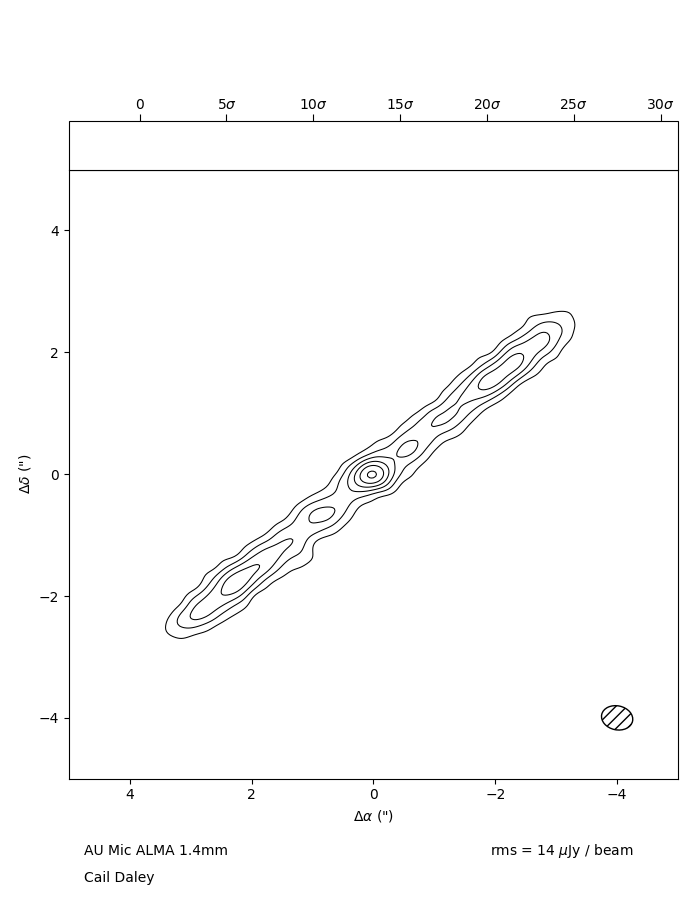
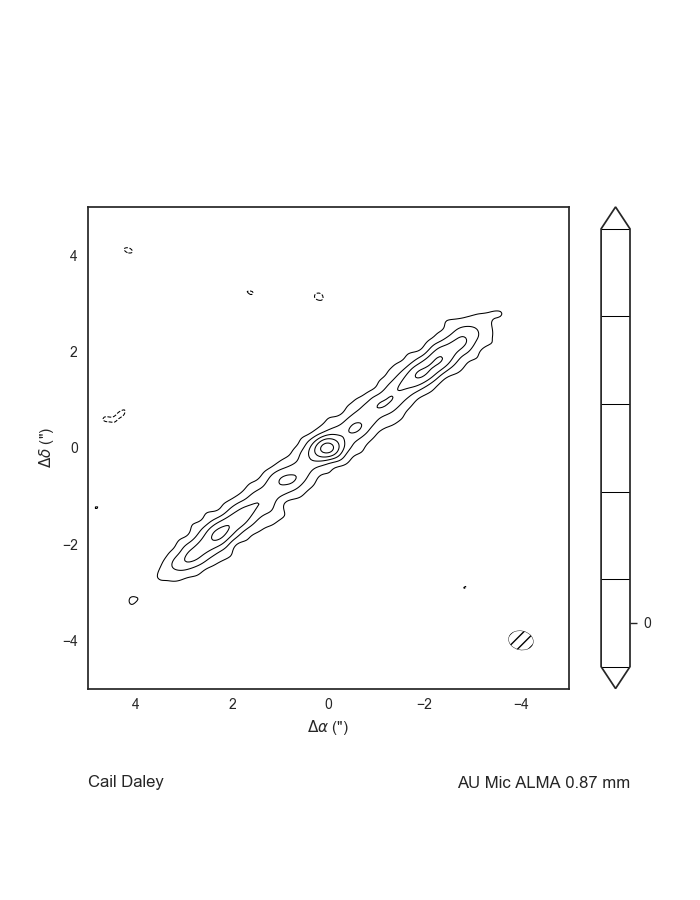
new iterations of both querying and plotting scripts

diff --git a/input.py b/input.py
@@ -1,42 +1,32 @@
-%reload_ext autoreload
-%autoreload 2
 import numpy as np
 from astropy.io import fits
+import astropy.constants as c
+import astropy.units as u
 import matplotlib as mpl
 import matplotlib.patheffects
 import matplotlib.pyplot as plt
 import mpl_toolkits.axes_grid1
 import seaborn as sns
 from glob import glob
+import scipy.ndimage
 
-
-# try:
-#     %matplotlib inline
-#     %config InlineBackend.figure_format = 'jpg'
-# except:
-#     pass
-# sns.set_style("ticks", {"xtick.direction": "in", "ytick.direction": "in"})
+sns.set_style("white", {"xtick.direction": "in", "ytick.direction": "in"})
+    
     
 
 class Page:
-    def __init__(self, path, rms=None, xy_extent=None):
+    def __init__(self, path):
         self.path = path
-        self.fig, self.ax = plt.subplots(figsize=(7,9))
+        
         self.get_fits()
-        self.set_rms(rms, xy_extent)
+        # self.set_rms(rms, xy_extent)
         
     def get_fits(self):
         # Get header, image array and rms, convert to micro Jy
         fits_file = fits.open(self.path)
         self.head = fits_file[0].header
-        self.im = fits_file[0].data[0][0]
-        if np.log10(self.im.max()) >= -3:
-            self.unit = 'mJy / beam'
-            self.im *= 1e3
-        elif np.log10(self.im.max()) >= -6:
-            self.unit = r'$\mu$Jy / beam'
-            self.im *= 1e6
-            
+        self.im = np.squeeze(fits_file[0].data[0])
+        
         # Read in header spatial info to create coordinate grid
         nx = self.head['NAXIS1'];           ny = self.head['NAXIS2']
         xpix = self.head['CRPIX1'];         ypix = self.head['CRPIX2']
@@ -46,77 +36,70 @@ class Page:
         self.ra_offset  = np.array( ( (np.arange(nx) - xpix + 1) * xdelt) * 3600)
         self.dec_offset = np.array( ( (np.arange(ny) - ypix + 1) * ydelt) * 3600)
     
-    def set_rms(self, rms, xy_extent):
+        self.wav = (c.c / (self.head['CRVAL3']*u.Hz)).to('mm')
+        
+    def set_rms(self, rms=None, xy_extent=None):
+        try:
+            readme_path = self.path[:self.path.rfind('/') + 1] + 'README'
+            with open(readme_path, 'r') as f:
+                readme = f.read()
+                
+            rms_ind = readme.find('RMS')
+            self.rms = np.float(readme[rms_ind:].split()[1])
+            unit = readme[rms_ind:].split()[2]
+            
+            print('Taking the rms from the following:\n\n')
+            print(readme[rms_ind-150:rms_ind+25] + '\n\n')
+        except IOError: 
+            pass
+
         if rms is not None:
             self.rms = rms
         elif xy_extent is not None:
-            rms_pixels = []
-            for i in range(self.im.shape[0]):
-                for j in range(self.im.shape[1]):
-                    if np.abs(self.dec_offset[i]) > xy_extent[1] and np.abs(self.ra_offset[i]) > xy_extent[0]:
-                        rms_pixels.append(self.im[i,j])
-            self.rms = np.sqrt(np.mean(np.array(rms_pixels)**2)) 
+            rms_array = np.copy(self.im); 
+            x_ind = np.argmin(np.abs(np.abs(self.ra_offset) - xy_extent[0]))
+            y_ind = np.argmin(np.abs(np.abs(self.dec_offset) - xy_extent[1]))
+            rms_array[x_ind:-x_ind, y_ind:-y_ind] = np.nan
+            self.rms = np.sqrt(np.nanmean(rms_array**2)) 
+        
+        try:
+            self.snr = np.array([np.nanmin(self.im), np.nanmax(self.im)]) / self.rms
+            print('RMS is {}'.format(self.rms))
+            print('SNR ranges between {} and {}'.format(*self.snr))
+        except AttributeError:
+            self.rms = None
     
-    def make_page(self, extent=None, sigma_interval=2):
+    def make_page(self, extent=None, levels=None, channel_ind=None):
+        self.fig, self.ax = plt.subplots(figsize=(7,9))
+        self.ax.grid(False); self.ax.set_aspect('equal')
+        self.ax.set_xlabel(r'$\Delta \alpha$ (")')
+        self.ax.set_ylabel(r'$\Delta \delta$ (")')
+        
+        im = self.im if channel_ind is None else self.im[channel_ind]
+        
         if extent != None:
             xmin, xmax = -extent, extent;  ymin, ymax = -extent, extent
             self.ax.set_xlim(xmax, xmin);       self.ax.set_ylim(ymin, ymax)
-            self.ax.grid(False)
     
-        # Set x and y major and minor tics
-        # majorLocator = mpl.ticker.AutoLocator()
-        # self.ax.xaxis.set_major_locator(majorLocator)
-        # self.ax.yaxis.set_major_locator(majorLocator)
-
-        # Set x and y labels
-        self.ax.set_xlabel(r'$\Delta \alpha$ (")')
-        self.ax.set_ylabel(r'$\Delta \delta$ (")')
-        # self.ax.tick_params(which='both', right='on', labelsize=18, direction='in')
-        # self.ax.tick_params(axis='y', labelright='off', right='on')
-        
-        self.ax.set_aspect('equal'); 
-        try:
-            min_sigma = np.ceil(self.im.min() / self.rms)
-            max_sigma = np.ceil(self.im.max() / self.rms)
-            contour_levels = np.arange(min_sigma, max_sigma, 1)
-            contours = self.ax.contour(self.ra_offset, self.dec_offset, self.im/self.rms,
-                colors='k', levels=contour_levels, 
-                linewidths=0.75, linestyles='solid')
-            self.ax.contour(self.ra_offset, self.dec_offset, self.im/self.rms,
-                levels=np.flip(contour_levels, axis=0) * -1,
-                colors='k', linewidths=0.75, linestyles='dashed')
-        except AttributeError:
-            cmap = self.ax.imshow(self.im,
+        if levels is not None:
+            contour_levels = np.array(levels) * np.nanmax(self.im)
+            for_cbar = self.ax.contour(self.ra_offset, self.dec_offset,     
+                im, levels=contour_levels, colors='k', 
+                linewidths=0.75, extend='both')
+        else:
+            for_cbar = self.ax.imshow(im,
                 extent=[self.ra_offset[0], self.ra_offset[-1], self.dec_offset[-1], self.dec_offset[0]])
-
-        # Create the colorbar
+                
+            # Create the colorbar
         divider = mpl_toolkits.axes_grid1.make_axes_locatable(self.ax)
-        cax = divider.append_axes("top", size="8%", pad=0.0)
-        cmap = mpl.colors.LinearSegmentedColormap.from_list('white', [(1,1,1), (1,1,1)], N=1000)
-        cbar = mpl.colorbar.ColorbarBase(cmap=cmap, ax=cax, 
-            norm=mpl.colors.Normalize(vmin=self.im.min()/self.rms, vmax=self.im.max()/self.rms), 
-            orientation='horizontal')
-        cbar.ax.xaxis.set_tick_params(which='major', direction='out', 
-        bottom='off', top='on', labeltop='on', labelbottom='off',
-        length=5, pad=1.5)
-        cbar.ax.set_xticklabels([r'${}\sigma$'.format(int(sigma_val)) for sigma_val in cbar.get_ticks()])
-        self.fontsize = self.ax.xaxis.label.get_size()
+        cax = divider.append_axes("right", size="6%", pad=0.32)
         
-        # try:
-        #     if min_sigma == -sigma_interval: 
-        #         min_sigma -= 1
-        #     cbar.set_ticks(list(-contour_levels)[::-1] + [0] + list(contour_levels))
-        #     cbar_labels = [ r'${}\sigma$'.format(level)
-        #         for level in range(-sigma_interval, min_sigma, -sigma_interval)] \
-        #         + ['0'] \
-        #         + [r'${}\sigma$'.format(int(val/self.rms)) \
-        #             for val in contour_levels]
-        #     cbar.ax.set_xticklabels(cbar_labels)
-        # 
-        # except (UnboundLocalError, AttributeError):
-        #     pass
-
-        # Overplot the beam ellipse
+        # boundaries = [self.im.min()] + list(contour_levels) + [self.im.max()]
+        cbar = self.fig.colorbar(for_cbar, ax=self.ax, cax=cax, 
+            ticks=[0], spacing='proportional', orientation='vertical')
+        cbar.ax.set_yticklabels(cbar.ax.get_yticklabels(), ha='right')
+        cbar.ax.yaxis.set_tick_params(pad=10, length=5, direction='out')
+        
         try:
             beam_ellipse_color = 'k'
             bmin = self.head['bmin'] * 3600.
@@ -131,61 +114,50 @@ class Page:
         except KeyError: 
             pass
             
-    def quickview(self):
-            plt.imshow(self.im, origin='lower')
-            plt.show(block=False)
-            
-
-class ColoringBook:
-    # Set seaborn plot styles and color pallete
-    def __init__(self):
-        self.pages = []
-            
-    def add_page(self, path):
-        self.pages.append(Page(path))
-        return self.pages[-1]
+    def add_text(self, text_dict):
+        for align, string in text_dict.items():
+            if align == 'left':
+                # x = 1 - page.ax.get_position().extents[2]
+                x,y = page.ax.get_position().extents[:2]
+            elif align == 'right':
+                x,y = page.ax.get_position().extents[2:0:-1]
+            self.fig.text(x, y, s=string, horizontalalignment=align)
         
-    def make_pages(self):
-        for page in self.pages:
-            page.make_page()
-            page.quickview()
-    
-    def add_title(self, title):
-        plt.suptitle(self.title)
-    
-    def show(self):
-        plt.show(block=False)
-        
-    def save(self, path, dpi=400):
-        self.fig.savefig(path, dpi=dpi)
-        
-# files = glob('*.fits')
-# files
-# f = files[0]
-
-# paths = ['fits_files/' + path for path in ['49_page_cdaley.fits', 'AU_Mic_cdaley.fits', 'TYC_4496_fenclada.fits']]
-# cb = ColoringBook()
-fontsize=13
-left, right, top, bottom = 0.12, 0.7, 0.05, 0.02
-
-# page = Page('fits_files/AU_Mic_cdaley.fits', xy_extent=[4,4])
-# page.make_page(extent=5, sigma_interval=5); 
-# page.fig.text(left, top, r'AU Mic ALMA 1.4mm', fontsize=page.fontsize)
-# page.fig.text(left, bottom, 'Cail Daley', fontsize=page.fontsize)
-# page.fig.text(right, top, 'rms = {} '.format(int(page.rms.round())) + page.unit, fontsize=page.fontsize)
-# plt.tight_layout()
+# page = Page('fits_files/AU_Mic_cdaley.fits')
+# page.make_page(extent=5, levels=[-0.1, 0.1, 0.3, 0.5, 0.7, 0.9])
+# page.add_text({'left' : 'Cail Daley', 'right' : r'AU Mic ALMA {:.2g}'.format(page.wav)})
 # plt.savefig('AU_Mic', dpi=100)
 # plt.show()
 # 
-# page = Page('fits_files/49_ceti_cdaley.fits', xy_extent=[4,3])
-# page.make_page(sigma_interval=3)
-# page.fig.text(left, top, '49 Ceti ALMA 850 $\mu$m', fontsize=page.fontsize)
-# page.fig.text(left, bottom, 'Cail Daley', fontsize=page.fontsize)
-# page.fig.text(right, top, 'rms = {} '.format(int(page.rms.round())) + page.unit, fontsize=page.fontsize)
-# plt.tight_layout()
+# page = Page('fits_files/49_Ceti_cdaley.fits')
+# page.make_page(extent=5, levels=[-0.21, 0.21, 0.4, 0.6, 0.8])
+# page.add_text({'left' : 'Jesse Lieman-Sifry & Cail Daley', 'right' : r'49 Ceti ALMA {:.2g}'.format(page.wav)})
+# plt.show()
+# 
+# page = Page('fits_files/TYC_4496_fenclada.fits')
+# page.make_page(levels=[-0.1, 0.1, 0.3, 0.5, 0.7, 0.9], extent=3)
+# page.add_text({'left' : 'Francisco Encalada', 'right' : 'SMA TYC4496-780-1 {:.2g}'.format(page.wav)})
 # plt.show()
 
-page = Page('fits_files/TYC_4496_fenclada.fits', xy_extent=[3,3])
-page.make_page(sigma_interval=3, extent=3)
-plt.show()
-# page.make_page(extent=4.5)
+# sigma = np.abs(0.33/ (page.head['CDELT1'] * 3600) ) / 2.355
+# page=Page('ALMA_data/Elia_2-27_Perez/CLEANcontinuum.sourceElias227.image.fits'); 
+# page.im -= 0.87 * scipy.ndimage.gaussian_filter(page.im, sigma=sigma); 
+# page.make_page(extent=2, levels=[-0.0192, 0.0192, 0.1, 0.25, 0.5, 0.7, 0.9]); plt.show()
+
+# files = glob('ALMA_data/TW_Hya_Cleeves/*TW_Hya*cube*.pbcor.fits'); files.sort()
+# files[2.]
+# for file in files:
+#     try:
+#         page = Page(file)
+#     except:
+#         pass
+#     print(file, page.head['CRVAL3'], page.head['CDELT3'])
+
+# page = Page('ALMA_data/TW_Hya_Cleeves/uid___A001_X88f_X283.TW_Hya_sci.spw29.cube.I.pbcor.fits')
+# spectrum = np.nansum(page.im, axis=(1,2)); center_ind = spectrum.argmax() + 1
+# page.make_page(levels=[-0.1, 0.1, 0.2, 0.3, 0.4, 0.5, 0.6, 0.7], extent=4, channel_ind=center_ind-15); plt.show()
+# for i in range(center_ind-15, center_ind+15, 1):
+#     page.make_page(levels=[-0.1, 0.1, 0.2, 0.3, 0.4, 0.5, 0.6, 0.7], extent=4, channel_ind=i)
+#     plt.show()
+
+# #     f

diff --git a/ALMA_querying.py b/ALMA_querying.py
@@ -1,31 +1,65 @@
 import numpy as np
-import pathlib2
 import shutil
-from astroquery.alma.core import Alma
+from astroquery.alma.core import Alma as ALMA
+import sys 
+version = sys.version_info[0]
+if  version == 3:
+    import pathlib
+elif version == 2:
+    import pathlib2 as pathlib
+    
+class AlmaQuery:
+    def __init__(self, dict):
+        self.query = Alma.query(dict)
+        
+        self.PI = self.query['PI name'][0].split(',')[0]
+        self.project_filelinks = Alma.stage_data(self.query[0]['Member ous id'])
+        self.download_link = self.project_filelinks[self.project_filelinks['size'].argmin()]
+    
+    def filter_links(self, string):
+        for link in self.project_filelinks:
+            if string in link['URL']:
+                self.download_link = link
+        print('\nSize = {} GB'.format(self.download_link['size']))
+            
+    def url(self):
+        try:
+            url = self.download_link['URL'].replace('dataPortal', 'rh')
+        except AttributeError:
+            url = self.project_filelinks[0]['URL'].replace('dataPortal', 'rh')
+        url = str(url[:url.find('ALMA')])
+        print(url)
+    
+    def download(self):
+        # download, extract README and fits files, and then delete everything else
+        filepaths = Alma.download_and_extract_files(self.download_link['URL'], regex=r'.*\.fits$|.*README$')            
+        
+        # move downloaded files to the ALMA_data directory
+        self.name = self.query['Source name'][0]
+        self.directory = pathlib.Path('ALMA_data/' + self.name + '_' + self.PI)
+        self.directory.mkdir(exist_ok=True)
+        for path in filepaths:
+            current_path = pathlib.Path(path)
+            new_path = self.directory.joinpath(current_path.name)
+            shutil.move(str(current_path), str(new_path))
+                
+Alma = ALMA()
+Alma.login('cdaley')
 Alma.cache_location = 'ALMA_cache'
 
-class AlmaQuery:
-    def __init__(self, name, code=None, download=False):
-        self.query = Alma.query_object(name)
-        if code is not None:
-            self.project = self.query[self.query['Project code'] == '2015.1.00686.S']
-            self.name = self.project['Source name'][0]
-        if download is True:
-            # choose smallest of the tar files to download (should be data product)
-            filelink_list = Alma.stage_data(self.project['Member ous id'])
-            filelink = filelink_list[filelink_list['size'].argmin()]
-            print('\nSize = {} GB'.format(filelink['size']))
-            
-            # download, extract README and fits files, and then delete everything else
-            filepaths = Alma.download_and_extract_files(filelink['URL'], regex=r'.*\.fits$|.*README$')            
-            
-            # move downloaded files to the ALMA_data directory
-            self.directory = pathlib2.Path('ALMA_data/' + self.name)
-            self.directory.mkdir(exist_ok=True)
-            for path in filepaths:
-                current_path = pathlib2.Path(path)
-                new_path = self.directory.joinpath(current_path.name)
-                shutil.move(str(current_path), str(new_path))
-                
-            
-q = AlmaQuery('TW Hya', '2015.1.00686.S', download=True)
+
+# q = AlmaQuery({'source_name_resolver' : 'TW Hya', 'project_code' :'2016.1.00629.S'})
+# q.url()
+# if version == 2:
+#     q.download()
+
+q = AlmaQuery({'source_name_alma' : 'Elia_2-27', 'project_code' :'2013.1.00498.S'})
+if version == 2:
+    q.download()
+    
+# for link in q.download_links:
+#     if not all([string in link['URL'] for string in ['2016.1.01042.S_uid___A001_X892_X49_001_of_001.tar']]):
+#         print(link)
+# q = AlmaQuery({'project_code' : '2016.1.00195.S'})
+# if version == 2:
+#     q.download()
